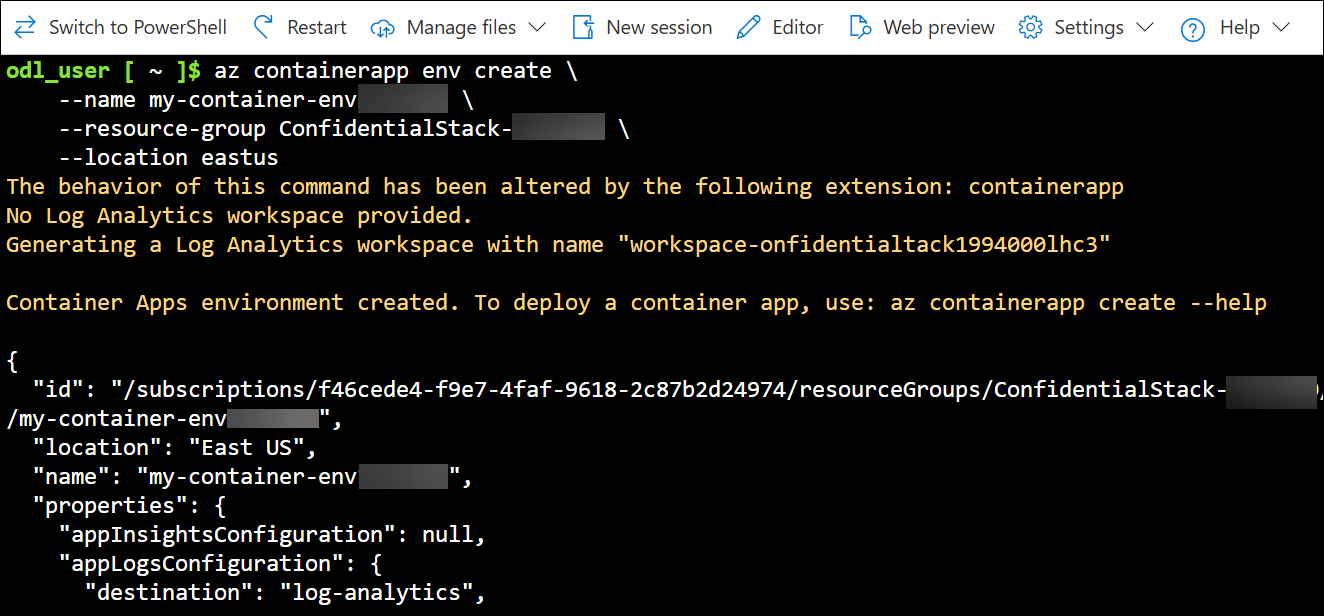
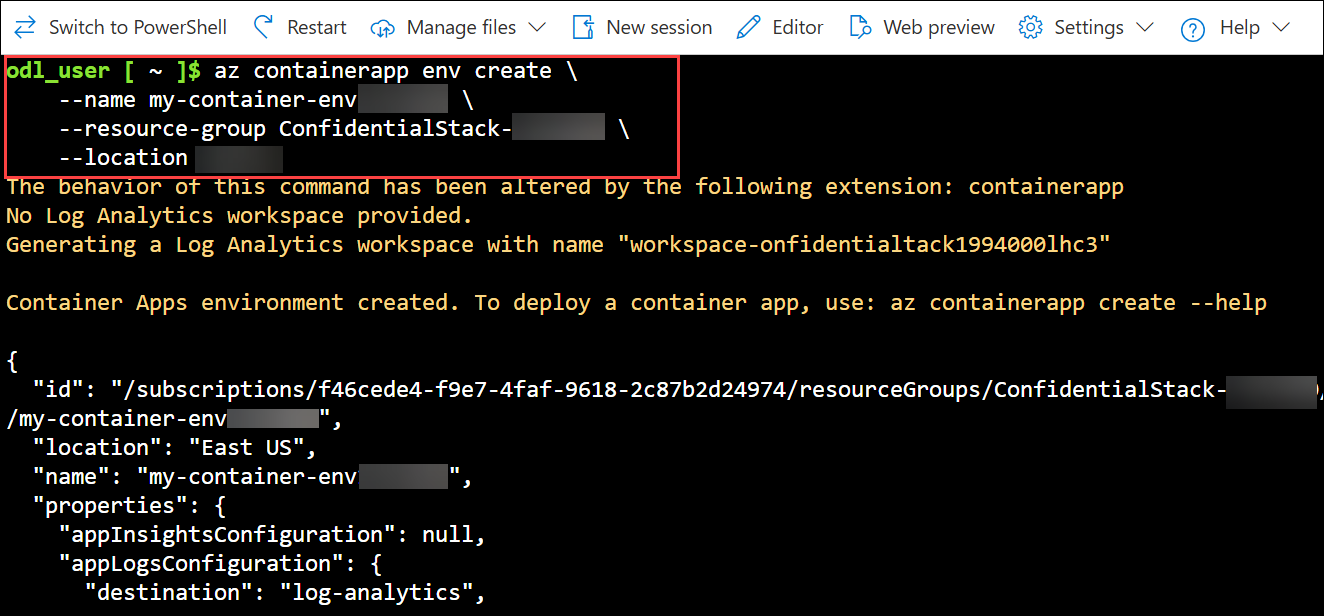
updated

diff --git a/instructions/azure-events-messages/01-event-grid-events-to-endpoint.md b/instructions/azure-events-messages/01-event-grid-events-to-endpoint.md
@@ -21,7 +21,7 @@ In this lab, you will perform:
 
 ### Task 1: Create Azure Event Grid resources
 
-In this section of the exercise you create the needed resources in Azure with the Azure CLI.
+In this task, you will create the required Azure Event Grid resources, including a custom topic, using the Azure CLI.
 
 1. In the lab VM, click on the **Azure Portal icon** as shown below:
 
@@ -44,8 +44,6 @@ In this section of the exercise you create the needed resources in Azure with th
 1. In the **Getting started** window, ensure **No storage account required (1)** is selected. From the **Subscription** drop-down, choose **Default subscription (2)**, then click **Apply (3)**.
    
     ![](./media/lab7-12---3.png)
-
-    > **Note:** If you have previously created a cloud shell that uses a *PowerShell* environment, switch it to ***Bash***.
 
 1. In the cloud shell toolbar, in the **Settings** menu, select **Go to Classic version** (this is required to use the code editor).
 
@@ -76,7 +74,7 @@ In this section of the exercise you create the needed resources in Azure with th
 
 ### Task 2: Create a message endpoint
 
-Before subscribing to the custom topic, we need to create the endpoint for the event message. Typically, the endpoint takes actions based on the event data. The following script uses a prebuilt web app that displays the event messages. The deployed solution includes an App Service plan, an App Service web app, and source code from GitHub.
+In this task, you will deploy a message endpoint using a prebuilt web app that will receive and display events sent to your Event Grid topic.
 
 1. Run the following commands to create a message endpoint. The **echo** command will display the site URL for the endpoint.
 
@@ -103,7 +101,7 @@ Before subscribing to the custom topic, we need to create the endpoint for the e
 
 ### Task 3: Subscribe to the topic
 
-You subscribe to an Event Grid topic to tell Event Grid which events you want to track and where to send those events. 
+In this task, you will subscribe the web app endpoint to your Event Grid topic so it can receive validation and custom events. 
 
 1. Subscribe to a topic using the **az eventgrid event-subscription create** command. The following script retrieves the subscription ID from your account and uses it in the creation of the event subscription.
 
@@ -126,7 +124,7 @@ You subscribe to an Event Grid topic to tell Event Grid which events you want to
 
 ### Task 4: Send an event with a .NET console application
 
-Now that the needed resources are deployed to Azure the next step is to set up the console application. The following steps are performed in the cloud shell.
+In this task, you will create a .NET console application that will be used to send custom events to your Event Grid topic.
 
 >**Tip:** Resize the cloud shell to display more information, and code, by dragging the top border. You can also use the minimize and maximize buttons to switch between the cloud shell and the main portal interface.
 
@@ -156,7 +154,7 @@ Now that the needed resources are deployed to Azure the next step is to set up t
 
 ### Task 5: Configure the console application
 
-In this section you retrieve the topic endpoint and access key so they can be added to a **.env** file to hold those secrets.
+In this task, you will configure the console application by retrieving the topic endpoint and access key, and storing them in a .env file.
 
 1. Run the following commands to retrieve the URL and access key for the topic you created earlier. Be sure to record these values.
 
@@ -190,6 +188,8 @@ In this section you retrieve the topic endpoint and access key so they can be ad
 Now it's time to replace the template code in the **Program.cs** file using the editor in the cloud shell.
 
 ### Task 6: Add the code for the project
+
+In this task, you will replace the default Program.cs code with logic that sends events to your Event Grid topic using the Event Grid SDK.
 
 1. Run the following command in the cloud shell to begin editing the application **(1)**.
 
@@ -247,6 +247,8 @@ Now it's time to replace the template code in the **Program.cs** file using the 
 1. Press **ctrl+s** to save the file, then **ctrl+q** to exit the editor.
 
 ### Task 7: Sign into Azure and run the app
+
+In this task, you will authenticate with Azure in Cloud Shell and run the console application to send an event to your subscribed endpoint.
 
 1. In the cloud shell command-line pane, enter the following command to sign into Azure.
 

diff --git a/instructions/azure-container-services/01-container-image-acr-tasks.md b/instructions/azure-container-services/01-container-image-acr-tasks.md
@@ -5,6 +5,7 @@
 In this exercise, you build a container image from your application code and push it to Azure Container Registry using Azure CLI. You learn how to prepare your app for containerization, create an ACR instance, and store your container image in Azure.
 
 ## Lab Objectives
+
 In this lab, you will perform:
 
 * Task 1: Create an Azure Container Registry resource
@@ -18,7 +19,20 @@ In this lab, you will perform:
 
 ### Task 1: Create an Azure Container Registry resource
 
-1. In your browser navigate to the Azure portal [https://portal.azure.com](https://portal.azure.com); signing in with your Azure credentials if prompted.
+In this task, you will create an Azure Container Registry instance that will store and manage your container images.
+
+1. In the lab VM, click on the **Azure Portal icon** as shown below:
+
+    ![](./media/lab2-12-0.png)
+
+    - On the **Sign in to Microsoft Azure** tab, you will see the login screen. Enter your credentials:
+      
+        * **Email/Username:** <inject key="AzureAdUserEmail"></inject>
+    
+    - Next, provide your password:
+
+        * **Temporary Access Pass:** <inject key="AzureAdUserPassword"></inject>
+
 
 1. On the Azure portal homepage, click the **\[>\_] Cloud Shell (1)** button located to the right of the **Copilot** tab at the top. This opens a new Cloud Shell session. In the **Welcome to Azure Cloud Shell** window, choose **Bash (2)**.
 
@@ -29,8 +43,6 @@ In this lab, you will perform:
 1. In the **Getting started** window, ensure **No storage account required (1)** is selected. From the **Subscription** drop-down, choose **Default subscription (2)**, then click **Apply (3)**.
    
     ![](./media/lab5-12-3.png)
-
-    > **Note**: If you have previously created a cloud shell that uses a *PowerShell* environment, switch it to ***Bash***.
 
 1. Run the following command to create a basic container registry. The registry name must be unique within Azure, and contain 5-50 numeric and lowercase characters. 
 
@@ -45,7 +57,7 @@ In this lab, you will perform:
 
 ### Task 2: Build and push an image from a Dockerfile
 
-Next, you build and push an image based on a Dockerfile.
+In this task, you will build a container image from a simple Dockerfile and push it directly to your Azure Container Registry using ACR Tasks.
 
 1. Run the following command to create the Dockerfile. The Dockerfile contains a single line that references the *hello-world* image hosted at the Microsoft Container Registry.
 
@@ -86,6 +98,8 @@ Next, you build and push an image based on a Dockerfile.
 
 ### Task 3: Verify the results
 
+In this task, you will verify that your image was successfully pushed by listing repositories and tags stored in your Azure Container Registry.
+
 1. Run the following command to list the repositories in your registry.
 
     ```bash
@@ -121,6 +135,8 @@ Next, you build and push an image based on a Dockerfile.
 
 ### Task 4: Run the image in the ACR
 
+In this task, you will run the container image directly from Azure Container Registry using the az acr run command to confirm the image works as expected.
+
 1. Run the *sample/hello-world:v1* container image from your container registry with the **az acr run** command. The following example uses **$Registry** to specify the registry where you run the command. 
 
     ```bash
@@ -131,3 +147,19 @@ Next, you build and push an image based on a Dockerfile.
     The **cmd** parameter in this example runs the container in its default configuration, but **cmd** supports other **docker run** parameters or even other **docker** commands. 
 
     ![](./media/lab5-12-9.png)
+
+## Summary
+
+In this lab, you:
+
+- Created an Azure Container Registry to store and manage container images
+
+- Built a container image from a Dockerfile and pushed it to your registry using ACR Tasks
+
+- Verified the uploaded image by listing repositories and tags in the registry
+
+- Ran the container image directly in Azure Container Registry to confirm successful execution
+
+## You have successfully completed the lab. Click on Next >>
+
+![](./media/next.png)

diff --git a/instructions/azure-container-services/03-deploy-to-container-apps.md b/instructions/azure-container-services/03-deploy-to-container-apps.md
@@ -1,9 +1,11 @@
 ## Exercise 3: Deploy a container to Azure Container Apps with the Azure CLI
 
 ## Lab Scenario
+
 In this exercise, you deploy a containerized application to Azure Container Apps using Azure CLI. You learn how to create a container app environment, deploy your container, and verify that your application is running in Azure.
 
 ## Lab Objectives
+
 In this lab, you will perform:
 
 * Task 1: Create an Azure Container Apps environment
@@ -13,7 +15,7 @@ In this lab, you will perform:
 
 ### Task 1: Create an Azure Container Apps environment
 
-An environment in Azure Container Apps creates a secure boundary around a group of container apps. Container Apps deployed to the same environment are deployed in the same virtual network and write logs to the same Log Analytics workspace.
+In this task, you will create an Azure Container Apps environment that provides the secure and shared infrastructure needed to host your container apps.
 
 1. Run the following command to ensure you have the latest version of the Azure Container Apps extension for the CLI is installed.
 
@@ -21,7 +23,7 @@ An environment in Azure Container Apps creates a secure boundary around a group 
     az extension add --name containerapp --upgrade
     ```
 
-1. Create an environment with the **az containerapp env create** command. Replace **myResourceGroup** and **myLocation** with the values you used earlier. It takes a few minutes for the operation to complete.
+1. Create an environment with the **az containerapp env create** command. It takes a few minutes for the operation to complete.
 
     ```bash
     az containerapp env create \
@@ -34,9 +36,9 @@ An environment in Azure Container Apps creates a secure boundary around a group 
 
 ### Task 2: Deploy a container app to the environment
 
-After the container app environment finishes deploying, you can deploy a container image to your environment.
+In this task, you will deploy a containerized application into your Container Apps environment and verify that it is accessible through its public endpoint.
 
-1. Deploy a sample app container image with the **containerapp create** command. Replace **myResourceGroup** with the value you used earlier.
+1. Deploy a sample app container image with the **containerapp create** command.
 
     ```bash
     az containerapp create \
@@ -60,3 +62,13 @@ After the container app environment finishes deploying, you can deploy a contain
 1. To verify the deployment select the URL returned by the **az containerapp create** command to verify the container app is running.
 
     ![](./media/lab5-e3-3.png)
+
+## Summary
+
+In this lab, you:
+
+- Created an Azure Container Apps environment to host containerized applications
+
+- Deployed a container app to the environment and verified that it was running by accessing its public endpoint
+
+## You have successfully completed the lab.

diff --git a/instructions/azure-container-services/02-run-container-aci.md b/instructions/azure-container-services/02-run-container-aci.md
@@ -1,6 +1,7 @@
 ## Exercise 2: Deploy a container to Azure Container Instances using Azure CLI commands
 
 ## Lab Scenario
+
 In this exercise, you deploy and run a container in Azure Container Instances (ACI) using Azure CLI. You learn how to create a container group, specify container settings, and verify that your containerized application is running in the cloud.
 
 ## Lab Objectives
@@ -13,7 +14,7 @@ In this lab, you will perform:
 
 ### Task 1: Create and deploy a container
 
-You create a container by providing a name, a Docker image, and an Azure resource group to the **az container create** command. You expose the container to the Internet by specifying a DNS name label.
+In this task, you will create and deploy a container instance in Azure Container Instances by specifying its name, image, ports, and DNS label.
 
 1. Run the following command to create a DNS name used to expose your container to the Internet. Your DNS name must be unique, run this command from Cloud Shell to create a variable that holds a unique name.
 
@@ -42,9 +43,9 @@ Move to the next section after the **az container create** command is finished.
 
 ### Task 2: Verify the container is running
 
-You can check the containers build status with the **az container show** command. 
+In this task, you will verify that your container is running by checking its provisioning status and accessing the container through its fully qualified domain name.
 
-1. Run the following command to check the provisioning status of the container you created. Replace **myResourceGroup** with the value you used earlier.
+1. Run the following command to check the provisioning status of the container you created. 
 
     ```bash
     az container show --resource-group ConfidentialStack-<inject key="DeploymentID" enableCopy="false"/> \
@@ -68,3 +69,15 @@ You can check the containers build status with the **az container show** command
 1. From a browser, navigate to your container's FQDN to see it running. You may get a warning that the site isn't safe.
 
      ![](./media/lab5-e2-3.png)
+
+## Summary
+
+In this lab, you:
+
+- Created and deployed a container instance in Azure Container Instances using the Azure CLI
+
+- Verified the container’s provisioning status and accessed its fully qualified domain name to confirm it was running successfully
+
+## You have successfully completed the lab. Click on Next >>
+
+![](./media/next.png)
